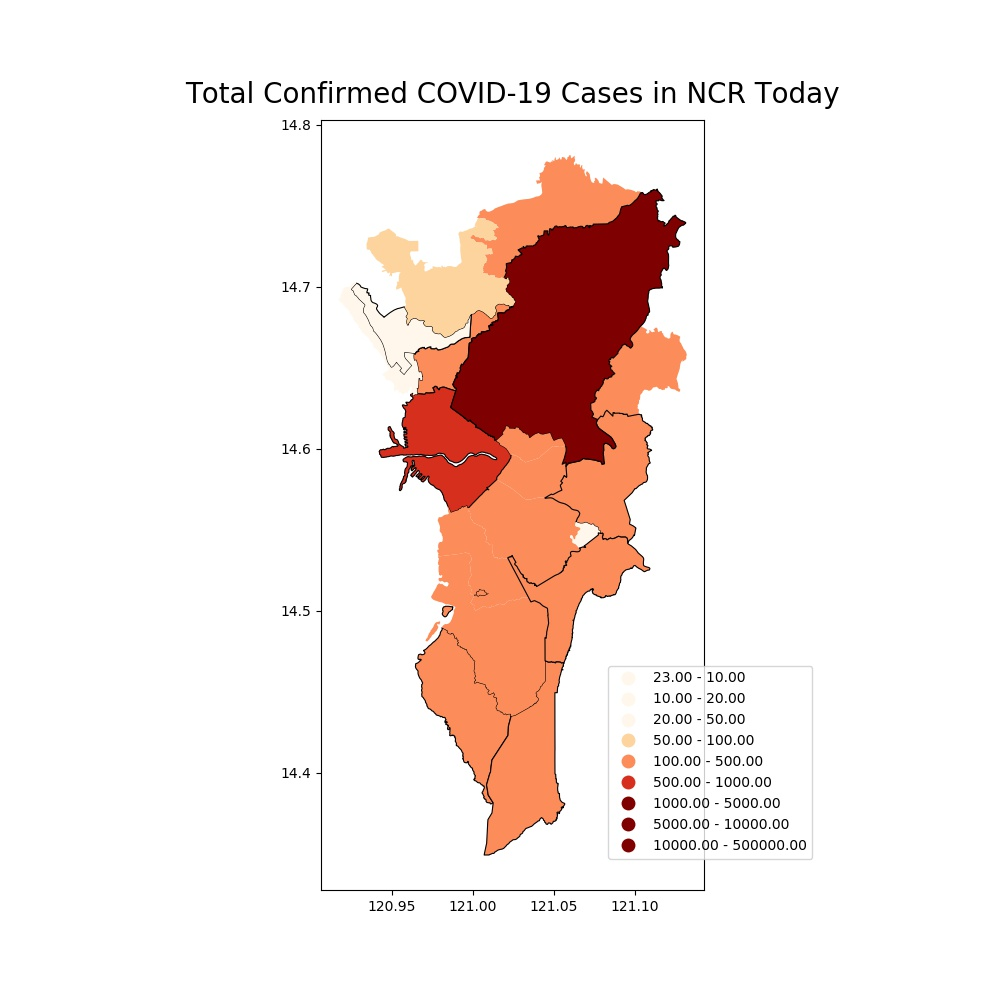
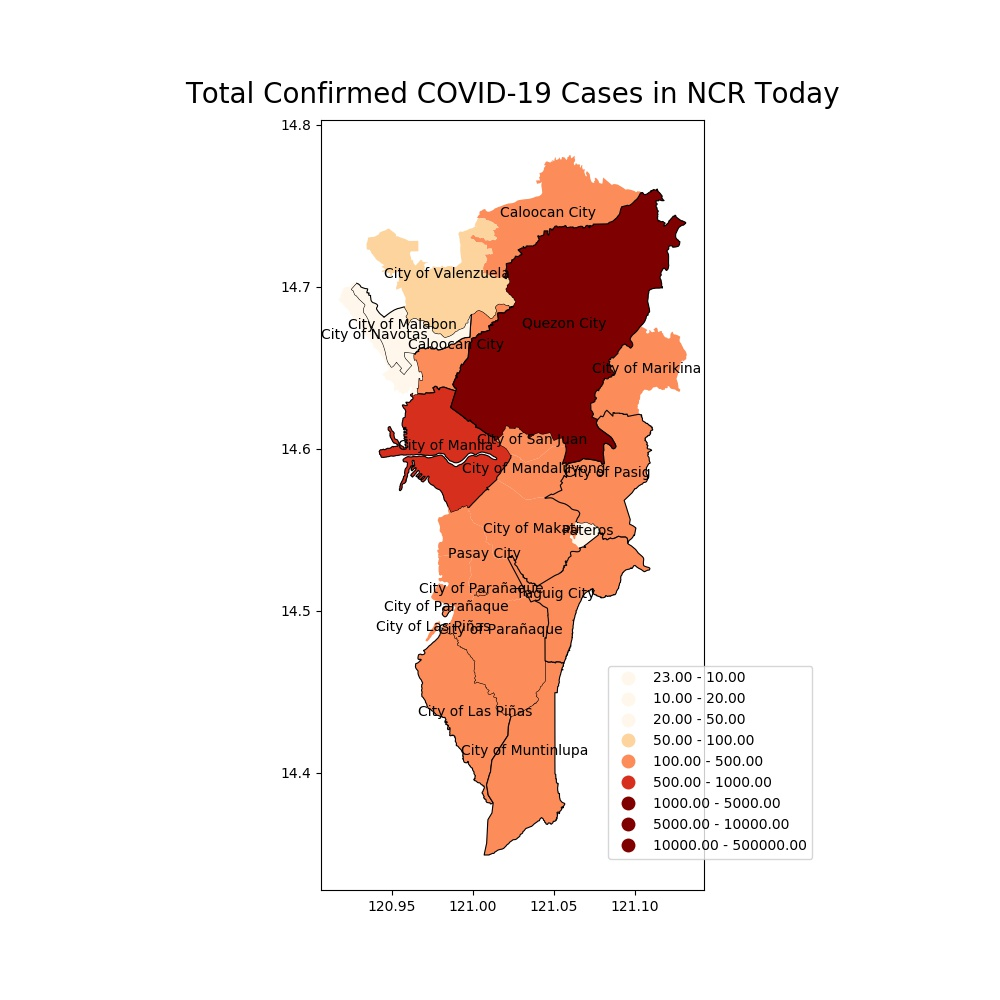
Organized some files :cyclone:

diff --git a/UI/location_widget.py b/UI/location_widget.py
@@ -74,6 +74,13 @@ class location_widget(QLabel):
         ax.set_title('Total Confirmed COVID-19 Cases in NCR Today', fontdict =
                         {'fontsize':20}, pad=12.5)
         ax.get_legend().set_bbox_to_anchor((1.3,0.3))
+        #ax.get_legend().set_bbox_to_anchor((0.9,0.3))
+        ax.annotate('Source: Wikipedia - https://en.wikipedia.org/wiki/Metro_Manila', xy=(0.6, .05), xycoords='figure fraction', fontsize=12, color='#FFFFFF')
+        combined['coords'] = combined['geometry'].apply(lambda x: x.representative_point().coords[:])
+        combined['coords'] = [coords[0] for coords in combined['coords']]
+        for idx, row in combined.iterrows():
+            plt.annotate(s=row['City'], xy=row['coords'],horizontalalignment='center')
+
         plt.savefig(os.path.join(sys.path[0], 'images\location.jpg'))
 
         pixmap = QPixmap(os.path.join(sys.path[0], 'images\location.jpg'))
